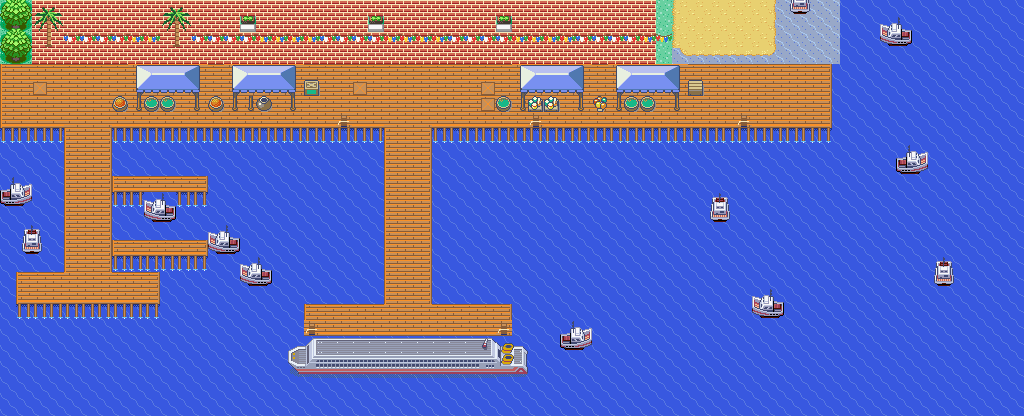
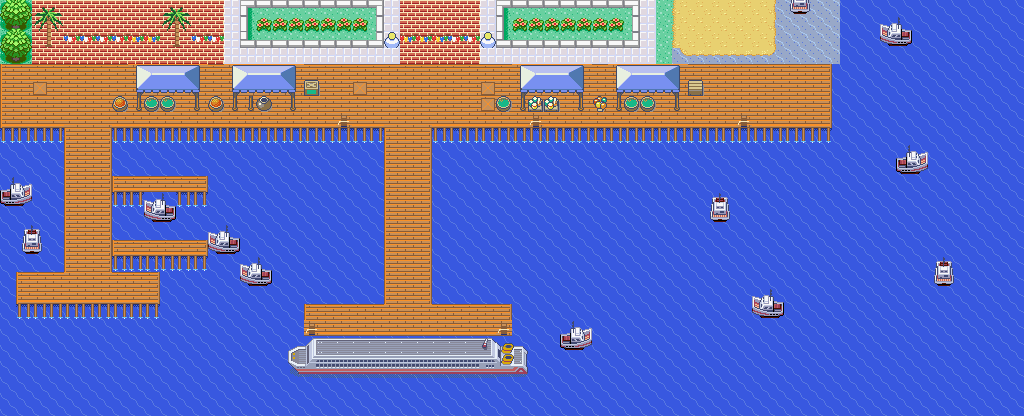
Plaza: lawns with flowers, modern fountains off the path, string lights
- Lamp posts extracted without grass so they sit on paving/brick.
- New modern fountain (rounded pool, three jets) placed inside green
  lawns with flowers, trees and a long kerbed flowerbed, away from paths.
- Bunting strung between pairs of lamp posts across the brick paths.
- Plaza extended down to the boardwalk (pier untouched).

Claude-Session: https://claude.ai/code/session_015nAeBdQj1XXGE9TrWVaT6H

Changed region(s): [[0.4688, 0.0, 0.6562, 0.1562], [0.2188, 0.0, 0.4062, 0.1562]]

diff --git a/dev_scripts/lilycove_redesign/layout.py b/dev_scripts/lilycove_redesign/layout.py
@@ -36,21 +36,7 @@ path(0,20,42,23)
 
 # boulevard lamps
 for x in (5,11,35,39): lamp(x,23)
-# ================= PLAZA (y23-35): grey tiles, inverted brick cross, fountains =================
-PX0,PX1,PY0,PY1 = 14,41,23,36          # plaza area; axis x=27 (Contest Hall door)
-paving(PX0,PY0,PX1,PY1)                # grey tiles: contour and floor
-brickfill(25,PY0,30,PY1)               # long arm of the cross, pointing at the hall
-brickfill(16,24,39,27)                 # cross bar, right below the hall
-for qx,flip in ((14,False),(30,True)): # the two lower quadrants (11 x 9)
-    fx = qx+4                          # fountain column
-    flowerbed(qx+2,27,7,3)             # bed above the fountain
-    flowerbed(qx+2,33,7,3)             # bed below the fountain
-    art('fountain',fx,30,bottom='paving')
-    tx = qx if not flip else qx+9      # medium trees on the outer edge
-    tree1(tx,27); tree1(tx,33)
-    lx = qx+10 if not flip else qx     # lamp posts along the brick path
-    lamp(lx,28); lamp(lx,34)
-for x in (17,21,33,37): lamp(x,23)     # lamps along the top contour
+# ================= PLAZA: drawn at the end (see PLAZA section below) =================
 # ================= HARBOR (left) =================
 harbor(4,26)                                 # door (7,31)
 brickfill(2,32,14,36)
@@ -58,7 +44,7 @@ tree1(2,23) if False else None
 trees(11,24,13,31)
 flowers(2,24,4,31)
 # ================= PROMENADE + WOODEN BOARDWALK =================
-brickfill(2,36,42,40)
+brickfill(2,36,14,40)                  # promenade west of the plaza
 # (the boardwalk itself is drawn at the end, after the beach, see boardwalk())
 # ================= BEACH (right) =================
 SX0,SX1,SY0,SY1=42,49,19,40   # sand area (meets the boardwalk at row 40)
@@ -83,16 +69,15 @@ stamp(66,0,76,8,54,0)
 for yy in range(4,8): put(54,yy,SHALLOW)
 
 # promenade planters (avoid pier axes x=7, x=27)
-for x in (3,15,23,31): put(x,37,T(0x005,1,0))
+for x in (3,): put(x,37,T(0x005,1,0))
 # central fountain on main axis
 # sign posts for bg_events
 for sx,sy in [(10,10),(47,9),(2,19),(31,19),(40,17),(3,31),(22,10),(16,5)]: sign(sx,sy)
 
 # ================= FESTIVAL DRESSING (World Contest Season) =================
 for bx,blue in ((23,False),(31,True)): banner(bx,17,'grass',blue)
-for bx,blue in ((15,True),(38,False)): banner(bx,24,'brick',blue)   # season banners at the ends of the cross bar
 bunting(2,46,21)                                   # across the avenue
-bunting(2,42,38)                                   # promenade
+bunting(2,14,38)                                   # promenade (west part)
 bunting(16,38,11)                                  # north street
 # palms along the promenade
 for px_ in (2,10): palm(px_,36,'brick')   # promenade palms, outside the plaza
@@ -146,3 +131,20 @@ for (x,y) in [(21,43),(33,43),(46,43),(19,56),(31,56)]: put(x,y,D('dock_bollard'
 art('boat_side',15,52); art('boat_side_l',35,56); art('boat_front',44,48); art('boat_side',47,54)
 art('boat_side_l',56,45); art('boat_front',58,52); art('boat_side',55,37)
 art('boat_side_l',49,32,bottom='shallow'); art('boat_front',49,35,bottom='shallow')
+
+# ================= PLAZA (x14-40, y23-39): grey tiles, inverted brick cross, lawns, fountains ===========
+paving(14,23,41,40)                       # grey tiles: contour and walkways
+brickfill(25,23,30,40)                    # long arm of the cross, pointing at the Contest Hall
+brickfill(16,24,39,27)                    # cross bar, right below the hall
+for qx in (14,30):                        # two lawns (left / right), fountains set apart from the paths
+    lx0 = qx+1                            # lawn x lx0..lx0+8, rows 28..38
+    fill(lx0,28,lx0+9,39,GRASS)
+    flowers(lx0+1,29,lx0+8,30); flowers(lx0+1,35,lx0+8,36)
+    art('fountain_modern',lx0+2,31,bottom='grass')
+    tree1(lx0,31) if qx==14 else tree1(lx0+7,31)
+    tree1(lx0+7,31) if qx==14 else tree1(lx0,31)
+    flowerbed(lx0,36,9,3)                 # long flowerbed along the bottom of the lawn
+# bunting strung between lamp posts across the brick paths
+for y in (28,33,38):
+    lamp2(24,y); lamp2(30,y); bunting2(25,30,y,'brick')
+lamp2(15,25); lamp2(39,25); bunting2(16,39,25,'brick')

diff --git a/dev_scripts/lilycove_redesign/plaza_art.py b/dev_scripts/lilycove_redesign/plaza_art.py
@@ -74,3 +74,73 @@ def fountain():
     for (x, y) in [(17, 4), (30, 4), (16, 8), (31, 8)]:
         _px(out, x, y, WH)
     return out
+
+
+def fountain_modern():
+    """64x48 modern fountain: rounded rectangular pool, stone rim, three water jets."""
+    W, H = 64, 48
+    c = _canvas(W, H)
+    x0, x1, y0, y1, r = 2, 61, 16, 41, 6
+    def inside(x, y, x0, x1, y0, y1, r):
+        if x < x0 or x > x1 or y < y0 or y > y1: return False
+        cx = min(max(x, x0 + r), x1 - r); cy = min(max(y, y0 + r), y1 - r)
+        return (x - cx) ** 2 + (y - cy) ** 2 <= r * r
+    # front wall (depth) of the pool
+    for y in range(y0, y1 + 5):
+        for x in range(W):
+            if inside(x, y - 4, x0, x1, y0, y1, r) and not inside(x, y, x0, x1, y0, y1, r):
+                c[y][x] = MGR if y < y1 + 3 else DGR
+    # rim (3 px) and water
+    for y in range(H):
+        for x in range(W):
+            if inside(x, y, x0, x1, y0, y1, r):
+                if inside(x, y, x0 + 3, x1 - 3, y0 + 3, y1 - 3, max(1, r - 3)):
+                    c[y][x] = LB1
+                    if y < y0 + 6: c[y][x] = B1           # shade under the far rim
+                    elif y < y0 + 8: c[y][x] = LB2
+                else:
+                    c[y][x] = LGR if y < (y0 + y1) // 2 else PALE
+    # ripple lines on the water
+    for (xa, xb, y) in [(8, 16, 30), (22, 28, 34), (36, 44, 29), (48, 55, 35), (12, 18, 37), (40, 47, 37)]:
+        for x in range(xa, xb): c[y][x] = WH
+    # nozzles (small stone discs) for the three jets
+    jets = [(16, 14), (32, 4), (47, 14)]
+    for jx, top in jets:
+        for x in range(jx - 3, jx + 4):
+            for y in range(28, 31): c[y][x] = MGR if y == 30 else LGR
+    # dark outline around the stone
+    out = [row[:] for row in c]
+    for y in range(H):
+        for x in range(W):
+            if c[y][x] == 0 and any(0 <= y + dy < H and 0 <= x + dx < W and c[y + dy][x + dx]
+                                    for dx, dy in ((1, 0), (-1, 0), (0, 1), (0, -1))):
+                out[y][x] = OUT
+    # jets: thin columns of water with a white core and splash rings
+    for jx, top in jets:
+        for y in range(top, 28):
+            out[y][jx - 1] = LB1; out[y][jx] = WH; out[y][jx + 1] = LB1
+        for dx in (-4, -3, 3, 4): _px(out, jx + dx, 27, WH)
+        for dx in (-5, 5): _px(out, jx + dx, 28, LB2)
+        _px(out, jx - 2, top + 1, LB1); _px(out, jx + 2, top + 1, LB1)
+        _px(out, jx - 3, top + 3, WH); _px(out, jx + 3, top + 3, WH)
+    return out
+
+
+def lamp_post():
+    """Lilycove's street lamp (metatile 0x29A) without its grass, recoloured to palette 8."""
+    mimg = render.build('primary/general', 'secondary/lilycove_city')[0]
+    lamp = mimg(0x29a).load(); grass = mimg(0x001).load()
+    pal = render_palette8()
+    c = _canvas(16, 16)
+    for y in range(16):
+        for x in range(16):
+            if lamp[x, y] != grass[x, y]:
+                col = lamp[x, y]
+                c[y][x] = min(range(1, 16), key=lambda i: sum((a - b) ** 2 for a, b in zip(pal[i], col)))
+    return c
+
+def render_palette8():
+    import os
+    p = os.path.join(os.path.dirname(os.path.abspath(__file__)), '..', '..', 'data/tilesets/secondary/lilycove/palettes/08.pal')
+    L = open(p).read().split('\n')[3:19]
+    return [tuple(int(v) for v in l.split()) for l in L]

diff --git a/dev_scripts/lilycove_redesign/port_art.py b/dev_scripts/lilycove_redesign/port_art.py
@@ -48,8 +48,13 @@ ART = {n: (lambda n=n: _CANVAS[n]) for n in _CANVAS}
 
 # plaza art, drawn directly in Lilycove palette 8 (no quantisation needed)
 import plaza_art as _P
-for _n, _f in (('paving', _P.paving), ('fountain', _P.fountain)):
+for _n, _f in (('paving', _P.paving), ('fountain', _P.fountain), ('fountain_modern', _P.fountain_modern), ('lamp', _P.lamp_post)):
     _CANVAS[_n] = _f()
     PAL_OF[_n] = _P.PAL8_SLOT
     ART[_n] = (lambda n=_n: _CANVAS[n])
 FLOOR = {'paving'}   # art drawn in the bottom layer (walkable floor)
+
+# festival bunting as art, so it can hang over any floor (palette 6 red / 12 blue)
+import festival_tiles as _F
+_CANVAS['bunting'] = _F.bunting(); PAL_OF['bunting'] = 6; ART['bunting'] = lambda: _CANVAS['bunting']
+_CANVAS['bunting_blue'] = _F.bunting(); PAL_OF['bunting_blue'] = 12; ART['bunting_blue'] = lambda: _CANVAS['bunting_blue']

diff --git a/dev_scripts/lilycove_redesign/compose.py b/dev_scripts/lilycove_redesign/compose.py
@@ -118,3 +118,11 @@ def flowerbed(x0,y0,w,h):
             elif b: k='bl' if l else ('br' if r else 'b')
             else: k='l' if l else ('r' if r else None)
             put(x0+i,y0+j,T(CURB[k],1,0) if k else T(0x004,1,0))
+
+def lamp2(x,y,under='paving'):  art('lamp',x,y,bottom=under)
+def bunting2(x0,x1,y,under='paving'):
+    for x in range(x0,x1):
+        art('bunting_blue' if (x//4)%2 else 'bunting',x,y,bottom=under,walk_rows=1)
+def string_lights(xa,xb,y,under='paving'):
+    """two lamp posts with bunting strung between them"""
+    lamp2(xa,y,under); lamp2(xb,y,under); bunting2(xa+1,xb,y,under)

diff --git a/dev_scripts/lilycove_redesign/build_city_tileset.py b/dev_scripts/lilycove_redesign/build_city_tileset.py
@@ -44,6 +44,8 @@ def build(M, festival_ids):
         'water': pmeta(0x170)[:4],
         'shallow': pmeta(0x19e)[:4],
         'dock': metas[festival_ids['dock'] - 512][:4],
+        'brick': metas[festival_ids['brick'] - 512][:4],
+        'grass': pmeta(0x001)[:4],
     }
     used = {v & 0x3ff for row in M for v in row if isinstance(v, int) and (v & 0x3ff) >= 512} | set(DOORS)
     keep_tiles = set()

diff --git a/docs/lilycove/README.md b/docs/lilycove/README.md
@@ -72,13 +72,15 @@ python3 dev_scripts/lilycove_redesign/build_lilycove.py --preview /tmp/lilycove.
 ```
 
 ## Praça (em frente ao Centro de Concursos)
-* Contorno e piso em **ladrilho cinza** (desenhado na paleta 8 de Lilycove).
-* **Cruz invertida de tijolos**: braço longo no eixo do Centro de Concursos e travessa
-  logo abaixo do prédio.
-* Duas **fontes** de pedra (desenho novo, contorno escuro e 3 tons como no Emerald),
-  cada uma entre **canteiros** com o meio-fio de pedra branca original do jogo e flores.
-* **Árvores médias** nas bordas e **postes de luz** ao longo do caminho de tijolos.
-* A rua (avenida) separa o prédio da praça. O tapete vermelho foi removido.
+* Contorno e caminhos em **ladrilho cinza** (desenhado na paleta 8 de Lilycove).
+* **Cruz invertida de tijolos**: braço longo no eixo do Centro de Concursos, indo até o
+  calçadão, e travessa logo abaixo do prédio.
+* Dois **gramados** com flores, árvores médias e um canteiro longo (meio-fio branco
+  original do jogo). As **fontes modernas** (piscina retangular com três jatos) ficam
+  no meio dos gramados, fora do caminho.
+* **Bandeirinhas presas entre postes de luz** atravessando os caminhos de tijolos. Os
+  postes foram extraídos do tile original sem a grama, então ficam sobre o piso certo.
+* A praça vai da avenida até o calçadão do porto (o píer não mudou).
 
 ## Porto (zona sul)
 Arte no estilo do próprio Emerald, extraída dos gráficos originais por
